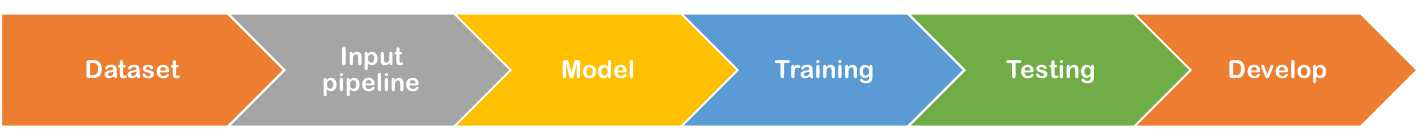
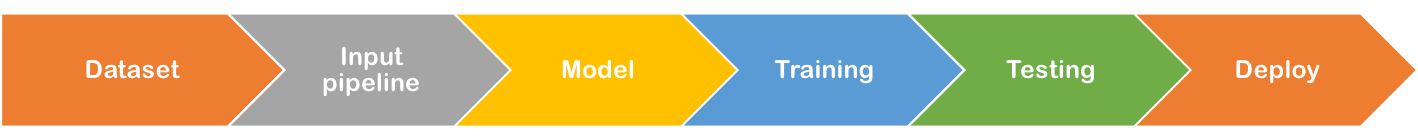
modify readme

Changed region(s): [[0.8688, 0.4317, 0.9619, 0.6043]]

diff --git a/README.md b/README.md
@@ -20,33 +20,80 @@ machine learning when doing my own coding.
 1. __Dataset:__ used for store and explore the new dataset for your own problem.
 You can convert your dataset to tfrecord in it.
 
-2. __Inputpipeline:__
+2. __Inputpipeline:__ used for read in the data from tfrecord or other sources and parser
+the data to feed into the NN. The return arguments usually are: iterator, input_data,
+target(if it is for supervised learning).
 
-3. __Model:__
+3. __Model:__ used for create the NN model.
 
-4. __Training:__
+4. __Training:__ used for training the NN model.
 
-5. __Develop:__
+5. __Testing:__ used for testing and post-processing the results.
+
+6. __Deploy:__ used for freeze the model and serve the tensorflow API.
 
 Other folders and files are:
 * __Plots:__ folder that stores pics
 * __README file:__  Github markdown.
-* __.gitignore:__ used for customize the content for git synchronization.
+* __.gitignore:__ used to customize the content for git synchronization.
 
 ## More Details
+1. __Dataset:__
+    * __utils.py:__ provides a variety of functions that can be used for
+    general data processing, including those convert image data and csv files
+    to tfrecord.
+    * __utils_dataset_spec.py:__ should be used to store the pre-processing functions
+    that specific for the dataset.
+2. __Inputpipeline:__
+    * __ProstateDataSet.py:__ creates a dataset object. It should be modified to your
+    own dataset.
+    * __input_source.py:__ shows several example that tensorflow can use for data
+    input, such as input from numpy, input from numpy as placeholder, input from 
+    tfrecord, etc.
+
+    ```python
+    def input_from_numpy(image, label):
+        image = tf.convert_to_tensor(image, dtype=tf.int32, name="image")
+        label = tf.convert_to_tensor(label, dtype = tf.int32, name="label")
+        dataset = tf.data.Dataset.from_tensor_slices(
+                {"input": image,
+                 "target": label})
+        ## TODO: Input from filenames and create an iterator: not commonly used
+        ## for large dataset
+        return dataset
+    
+    def input_from_numpy_as_placeholder(image, label):
+        input_placeholder = tf.placeholder(image.dtype, image.shape)
+        target_placeholder = tf.placeholder(label.dtype, label.shape)
+        dataset = tf.data.Dataset.from_tensor_slices((input_placeholder, \
+                                                      target_placeholder))
+        return dataset
+    
+    def input_from_tfrecord():
+        filenames = tf.placeholder(tf.string, shape=[None])
+        # make filenames as placeholder for training and validating purpose
+        dataset = tf.data.TFRecordDataset(filenames)
+        return dataset
+    ```
+
 3. __Model:__
     * __model_base.py:__ provides a series of building blocks that you might
 use in your NN, such as relu, leakyrelu, fully_connected layer etc. 
-```python
-def _relu(self, x):
-    return tf.nn.relu(x)
+    ```python
+    def _relu(self, x):
+        return tf.nn.relu(x)
+    
+    def _leakyrelu(self, x, leak=0.2, name="lrelu"):
+        with tf.name_scope(name):
+            f1 = 0.5 * (1 + leak)
+            f2 = 0.5 * (1 - leak)
+        return f1 * x + f2 * tf.abs(x)
+    ```
+4. __Training:__
 
-def _leakyrelu(self, x, leak=0.2, name="lrelu"):
-    with tf.name_scope(name):
-        f1 = 0.5 * (1 + leak)
-        f2 = 0.5 * (1 - leak)
-    return f1 * x + f2 * tf.abs(x)
-```
+5. __Testing:__
+
+6. __Deploy:__
 
 #### Examples of using the template
 
